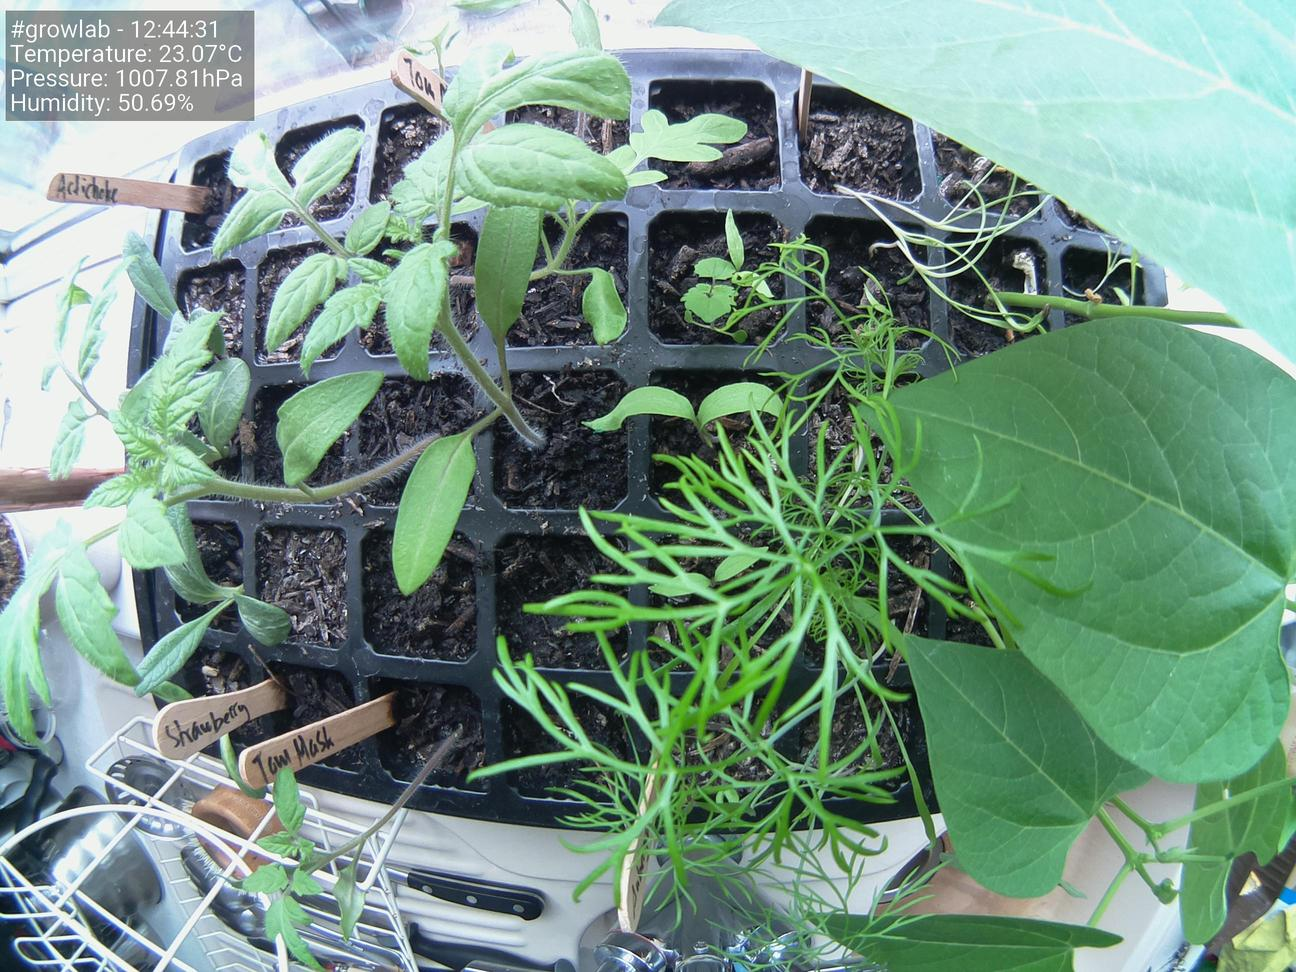
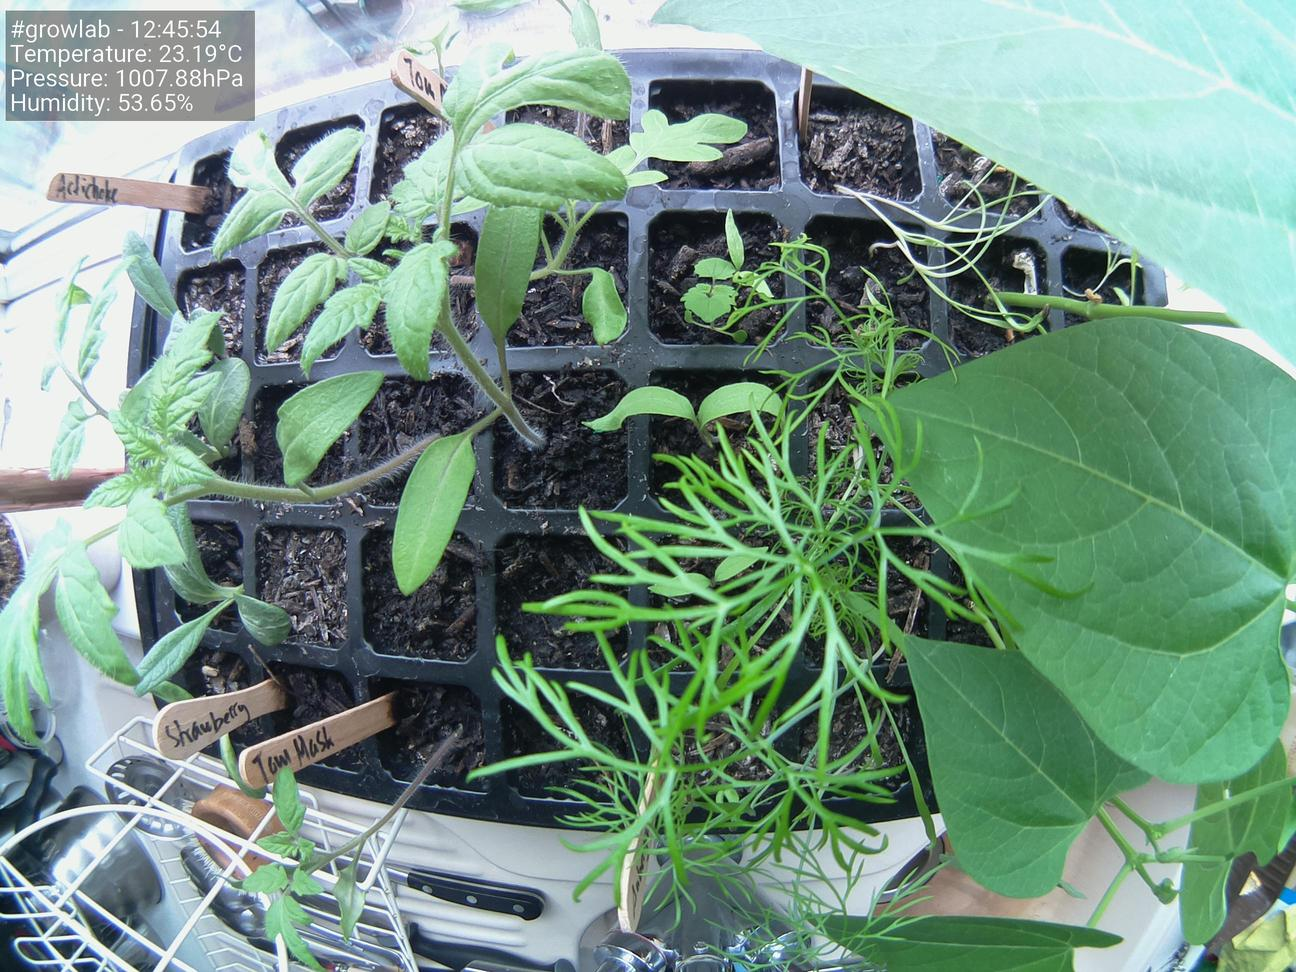
Update images at Wed 28 Apr 12:46:06 BST 2021

diff --git a/docs/index.html b/docs/index.html
@@ -38,19 +38,19 @@
                     <tbody>
                         <tr>
                             <td>Time</td>
-                            <td>12:44:31</td>
+                            <td>12:45:54</td>
                         </tr>
                         <tr>
                             <td>Temperature</td>
-                            <td>23.07°C</td>
+                            <td>23.19°C</td>
                         </tr>
                         <tr>
                             <td>Humidity</td>
-                            <td>50.69%</td>
+                            <td>53.65%</td>
                         </tr>
                         <tr>
                             <td>Pressure</td>
-                            <td>1007.81hPa</td>
+                            <td>1007.88hPa</td>
                         </tr>
                     </tbody>
                 </table>
@@ -58,7 +58,7 @@
 
                 <h5>Latest image</h5>
 		<div style="width: 85%;">
-	                <img class="figure-img img-fluid rounded" src="./preview.jpg?uid=1619610282.1187937">
+	                <img class="figure-img img-fluid rounded" src="./preview.jpg?uid=1619610366.0560334">
 		</div>
             </div>
         </div>
